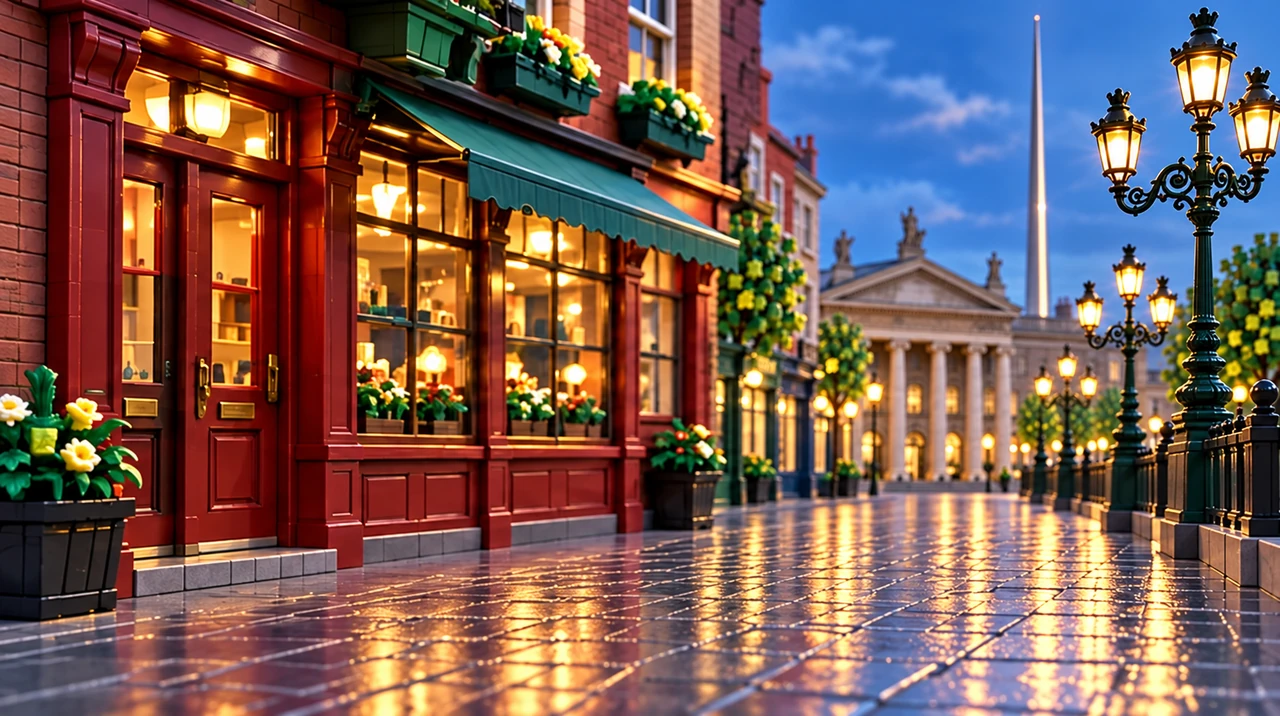
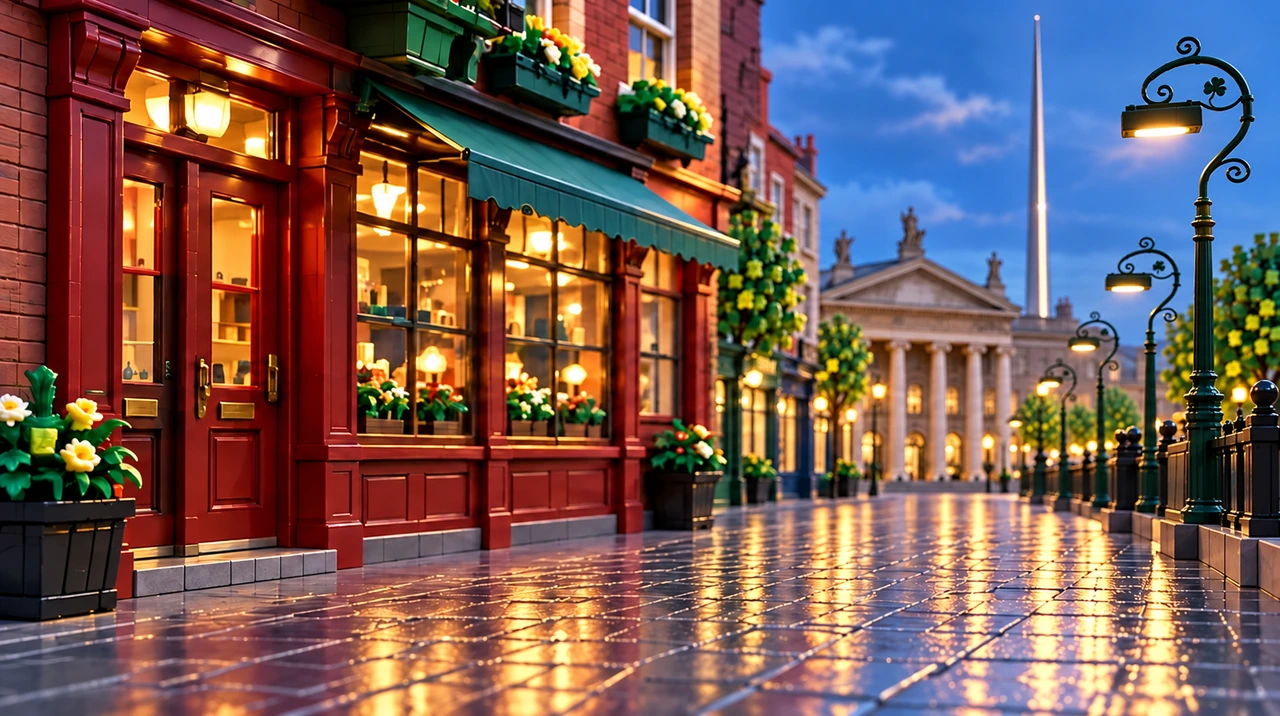
Replace background streetlights with documented Dublin swan-neck designs

diff --git a/garda/index.html b/garda/index.html
@@ -13,7 +13,7 @@
 <link rel="stylesheet" href="../accessibility/styles.css">
 <link rel="stylesheet" href="../accessibility/perspectives.css">
 <link rel="stylesheet" href="../accessibility/responsive.css">
-<script type="module" src="./app.mjs?v=context-scenes-1"></script>
+<script type="module" src="./app.mjs?v=irish-streetlights-1"></script>
 <link rel="stylesheet" href="../assets/brand/landing.css?v=full-scenes-1">
 <link rel="stylesheet" href="../assets/brand/buttons.css?v=learning-flow-2">
 <link rel="stylesheet" href="../encounters/refinements.css?v=scene-review-1">

diff --git a/index.html b/index.html
@@ -13,7 +13,7 @@
 <link rel="stylesheet" href="./accessibility/styles.css">
 <link rel="stylesheet" href="./accessibility/perspectives.css">
 <link rel="stylesheet" href="./accessibility/responsive.css">
-<script type="module" src="./app.mjs?v=context-scenes-1"></script>
+<script type="module" src="./app.mjs?v=irish-streetlights-1"></script>
 <link rel="stylesheet" href="./assets/brand/landing.css?v=full-scenes-1">
 <link rel="stylesheet" href="./assets/brand/buttons.css?v=learning-flow-2">
 <link rel="stylesheet" href="./encounters/refinements.css?v=scene-review-1">

diff --git a/docs/irish-streetlights-2026-10-30.md b/docs/irish-streetlights-2026-10-30.md
@@ -1,0 +1,44 @@
+# Irish streetlight replacements · 30 October 2026
+
+Replaces the free-standing three-lantern streetlights in all three outdoor encounter backgrounds and both homepage perspectives with a miniature interpretation of a documented Dublin swan-neck standard. The figures, scenario directions, layout and gameplay are unchanged. The Ha'penny Bridge retains its own white bridge lights.
+
+## Reference
+
+National Inventory of Architectural Heritage, [Mountshannon Road, Kilmainham, Dublin 8, record 50080197](https://www.buildingsofireland.ie/buildings-search/building/50080197/mountshannon-road-kilmainham-dublin-8-co-dublin). The record describes a fluted column, swan-neck, scrolls and a shamrock motif. [Detail photograph](https://www.buildingsofireland.ie/building-images/niah/images/survey_specific/800/50080197_2.jpg) and [full standard](https://www.buildingsofireland.ie/building-images/niah/images/survey_specific/800/50080197_1.jpg) guided the shape. Reference photographs are not included in production assets.
+
+These remain fictional miniature scenes, not surveyed reconstructions of specific lamp positions.
+
+## Production
+
+Used the built-in image-generation tool in precise-object-edit mode, then Sharp only for responsive sizing and WebP encoding. The three scene backgrounds retain 1280 × 716 dimensions. Both hero illustrations retain 480, 960 and 1600-pixel responsive variants at 16:9. Updated asset and importing-module query versions refresh previously cached artwork.
+
+Final assets:
+
+- `assets/scenes/street.webp`
+- `assets/scenes/bus-stop.webp`
+- `assets/scenes/square.webp`
+- `assets/heroes/public-{480,960,1600}.webp`
+- `assets/heroes/garda-{480,960,1600}.webp`
+
+## Final edit prompts
+
+### street
+
+Use case: precise-object-edit. Edit target is image 1, an existing production illustration for the Stopped: Both Sides Irish learning website. Images 2 and 3 are factual references for a real Dublin lamp on Mountshannon Road, documented by the National Inventory of Architectural Heritage. Change ONLY the free-standing streetlights. Replace every generic three-headed candelabra streetlamp and its little distant repetitions with a coherent miniature version of this Irish design: slender dark green fluted single column; a single sweeping swan-neck C-curve, restrained scroll ironwork and one small three-leaf shamrock detail inside the curve; ONE compact downward-facing rectangular light suspended from the curve, as in the photographic close-up. No upward-pointing lantern, no three-lantern cluster, no crown finials. Keep lighting soft and warm, not an oversized glowing lamp. Use the reference for geometry, rendered in the same polished brick-toy miniature material and perspective as the target, not a photographic paste-on. Match the existing lamp positions and ground contact, sensible pole thickness, consistent perspective as lights recede. Preserve everything else as closely as possible: exact framing, wide landscape aspect ratio, buildings, windows, shopfronts, wall-mounted shop sconces, foliage, colours, time of day, paving and reflections, the empty foreground, landmarks and their architectural details. No new objects, people, signs, text, watermark, red postboxes or British symbols. This is a local object replacement, not a scene redesign. Preserve exactly the GPO's three rooftop statues and six-column portico and one thin silver Dublin Spire. Keep all foreground paving clear for separate character overlays.
+
+### bus-stop
+
+Use case: precise-object-edit. Edit target is image 1, an existing production illustration for the Stopped: Both Sides Irish learning website. Images 2 and 3 are factual references for a real Dublin lamp on Mountshannon Road, documented by the National Inventory of Architectural Heritage. Change ONLY the free-standing streetlights. Replace every generic three-headed candelabra streetlamp and its little distant repetitions with a coherent miniature version of this Irish design: slender dark green fluted single column; a single sweeping swan-neck C-curve, restrained scroll ironwork and one small three-leaf shamrock detail inside the curve; ONE compact downward-facing rectangular light suspended from the curve, as in the photographic close-up. No upward-pointing lantern, no three-lantern cluster, no crown finials. Keep lighting soft and warm, not an oversized glowing lamp. Use the reference for geometry, rendered in the same polished brick-toy miniature material and perspective as the target, not a photographic paste-on. Match the existing lamp positions and ground contact, sensible pole thickness, consistent perspective as lights recede. Preserve everything else as closely as possible: exact framing, wide landscape aspect ratio, buildings, windows, shopfronts, wall-mounted shop sconces, foliage, colours, time of day, paving and reflections, the empty foreground, landmarks and their architectural details. No new objects, people, signs, text, watermark, red postboxes or British symbols. This is a local object replacement, not a scene redesign. Preserve exactly the bus shelter and its teal leaf poster, the yellow-and-blue bus, the GPO with exactly three rooftop statues and six-column portico, one thin silver Spire and all bollards. No figures anywhere in this background. Keep all foreground paving clear for separate character overlays.
+
+### square
+
+Use case: precise-object-edit. Image 1 is the ORIGINAL square background. Images 2 and 3 show the accurate real Irish streetlight replacement. Replace ONLY ONE object: the large dark green THREE-HEADED lamp on the pavement next to the cafe (about 38% across image 1). Give it a dark green fluted pole with a single sweeping swan-neck C curve, delicate scrolls and one small three-leaf shamrock in the curve, carrying just ONE compact downward-facing rectangular lamp, shaped like the reference. Keep its base in the exact same position and maintain appropriate height/perspective, rendered in the target's polished miniature brick-toy style. Do not change any other lights anywhere. Preserve the entire WHITE Ha'penny Bridge pixel-for-pixel as closely as possible, including ALL WHITE lanterns and their supports (the large central arch lamp AND the smaller ones at the ends and in the background), all white railings, trusses, shallow arch and stone abutments. Do not add dark green lamps behind or on the bridge. Preserve the cafe, tables, chairs, shop wall lamps, walls, river, background houses, trees, sky, empty foreground paving, lighting, colour, framing and landscape aspect ratio. No new figures, text, watermark or objects. This is a tightly localised single-lamp replacement.
+
+### public-hero
+
+Use case: precise-object-edit. Image 1 is the existing homepage illustration to edit. Images 2 and 3 are factual photographs of a real Irish swan-neck streetlight documented by the National Inventory of Architectural Heritage on Mountshannon Road, Dublin. Replace ONLY the free-standing three-lantern streetlights in image 1, including their distant repetitions, with consistent miniature brick-toy versions of that exact reference design: dark green slender fluted pole, a single sweeping swan-neck C curve with restrained scrolls and ONE small three-leaf shamrock motif, carrying ONE compact downward-facing rectangular light. The reference has no upward lanterns, no triple cluster and no crown. All replacement lights must have coherent scale, perspective, and warm lighting, in the same positions as existing poles. Match the existing illustration style perfectly, not photographic cutouts. Keep the rest of image 1 as unchanged as possible. ABSOLUTELY preserve all characters' exact appearance, faces, hair, skin, hands, bodies, clothing, accessories, poses, proportions and locations, all facial expressions, and the reverse-perspective arrangement. Preserve the GPO and its EXACTLY THREE pediment roof statues (one at each corner, one at the apex), six columns, one thin silver Spire, blue-and-yellow double decker bus, bus shelter and teal-leaf poster, all buildings, trees, paving, railings, framing, aspect ratio, lighting, colours and sharpness. No new people, no new objects, no new text, no watermark, no British symbols. Change only streetlamp components and the minimum immediate surrounding area necessary to replace the old shape. The public character with curly red-brown hair, spectacles, orange jacket and teal backpack faces us at left; the Garda with black bun, navy uniform and yellow vest is seen from behind at right. Preserve them exactly.
+
+### garda-hero
+
+Use case: precise-object-edit. Image 1 is the existing homepage illustration to edit. Images 2 and 3 are factual photographs of a real Irish swan-neck streetlight documented by the National Inventory of Architectural Heritage on Mountshannon Road, Dublin. Replace ONLY the free-standing three-lantern streetlights in image 1, including their distant repetitions, with consistent miniature brick-toy versions of that exact reference design: dark green slender fluted pole, a single sweeping swan-neck C curve with restrained scrolls and ONE small three-leaf shamrock motif, carrying ONE compact downward-facing rectangular light. The reference has no upward lanterns, no triple cluster and no crown. All replacement lights must have coherent scale, perspective, and warm lighting, in the same positions as existing poles. Match the existing illustration style perfectly, not photographic cutouts. Keep the rest of image 1 as unchanged as possible. ABSOLUTELY preserve all characters' exact appearance, faces, hair, skin, hands, bodies, clothing, accessories, poses, proportions and locations, all facial expressions, and the reverse-perspective arrangement. Preserve the GPO and its EXACTLY THREE pediment roof statues (one at each corner, one at the apex), six columns, one thin silver Spire, blue-and-yellow double decker bus, bus shelter and teal-leaf poster, all buildings, trees, paving, railings, framing, aspect ratio, lighting, colours and sharpness. No new people, no new objects, no new text, no watermark, no British symbols. Change only streetlamp components and the minimum immediate surrounding area necessary to replace the old shape. The public character with curly red-brown hair, orange jacket and teal backpack is viewed from behind at left; the female Garda with black bun, navy uniform, radio and yellow vest faces us at right. Preserve them exactly.
+
